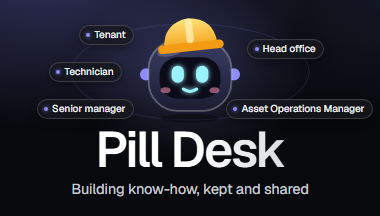
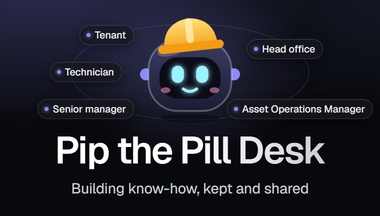
docs: project title "Pip the Pill Desk" on the form and cover; film is 6 min 19 s
YY, 16 Oct: the form, the cover and the solution deck carry the name
"Pip the Pill Desk". The film's how-we-built-it line was re-recorded to credit
CodeBuddy's parts (rule book, rule engine, ranking, safety stops) and say
another AI coding assistant helped finish the rest.

diff --git a/submission/SUBMISSION.md b/submission/SUBMISSION.md
@@ -18,7 +18,7 @@ against the repo; the check log sits with the staging copy of this file, outside
 | 5 | Cover image, 16:9, about 380 x 216 px | Required | ready | `submission/assets/cover.png` (380 x 216); `submission/assets/cover@2x.png` (760 x 432) |
 | 6 | Solution diagram answering Keppel's 8 questions | Required for this track | ready | below, field 6; `docs/solution/README.md`; the app's `/how` and `/flow` |
 | 7 | Live demo walkthrough | Required for this track | ready | below, field 7 |
-| 8 | Demo video, 5 to 8 min | Optional in the form, **required for us** | ready: 6 min 12 s, live | https://eternal-wreath-5ceq.here.now/ |
+| 8 | Demo video, 5 to 8 min | Optional in the form, **required for us** | ready: 6 min 19 s, live | https://eternal-wreath-5ceq.here.now/ |
 | 9 | Project link (live URL, earns bonus points) | Optional | ready: live | http://43.160.222.54 |
 | 10 | GitHub repo link (this repo) | Required for this track | private until submission | https://github.com/yanyiooi-ux/keppel-ai-harvest |
 
@@ -64,7 +64,7 @@ form.
 **Paste:**
 
 ```text
-Pill Desk
+Pip the Pill Desk
 ```
 
 **For YY:** nothing open. The app's top bar now reads just "Pill Desk", with no tag after it
@@ -288,7 +288,7 @@ onto the server before the app was built there, so the home page plays it.
 
 ```text
 https://eternal-wreath-5ceq.here.now/
-A 6 min 12 s one-take film of the real Pill Desk app, read by an AI narrator voice, with captions in the picture: the problem, the five seats and the fix that reaches every building. It ends with how we built it, with Tencent CodeBuddy and another AI coding assistant, and one tip.
+A 6 min 19 s one-take film of the real Pill Desk app, read by an AI narrator voice, with captions in the picture: the problem, the five seats and the fix that reaches every building. It ends with how we built it, with Tencent CodeBuddy and another AI coding assistant, and one tip.
 The film was made before the final seat names: its "senior engineer" is the app's Senior manager, and its "asset manager" is the Asset Operations Manager. Its test screen shows an earlier run (1,174 passed).
 ```
 

diff --git a/README.md b/README.md
@@ -41,7 +41,7 @@ see a new version reach a second building.
   and the arrow keys work too. It presses through the same routes as the seats, nothing is recorded, and it runs on
   Saved answers. It shares the one demo memory, so its Restart and Back reset what anyone else is looking at.
 - `/flow` is "How a job flows": every button in order, who is told next, the four approvals and the 30-day rule.
-- The film: <https://eternal-wreath-5ceq.here.now/>, a 6 min 12 s one-take film of the real app with captions. The
+- The film: <https://eternal-wreath-5ceq.here.now/>, a 6 min 19 s one-take film of the real app with captions. The
   same film plays near the top of the home page ("Watch the 6-minute video") when the file is on that copy; it is
   not in git (`web/public/media/README.md`).
 
